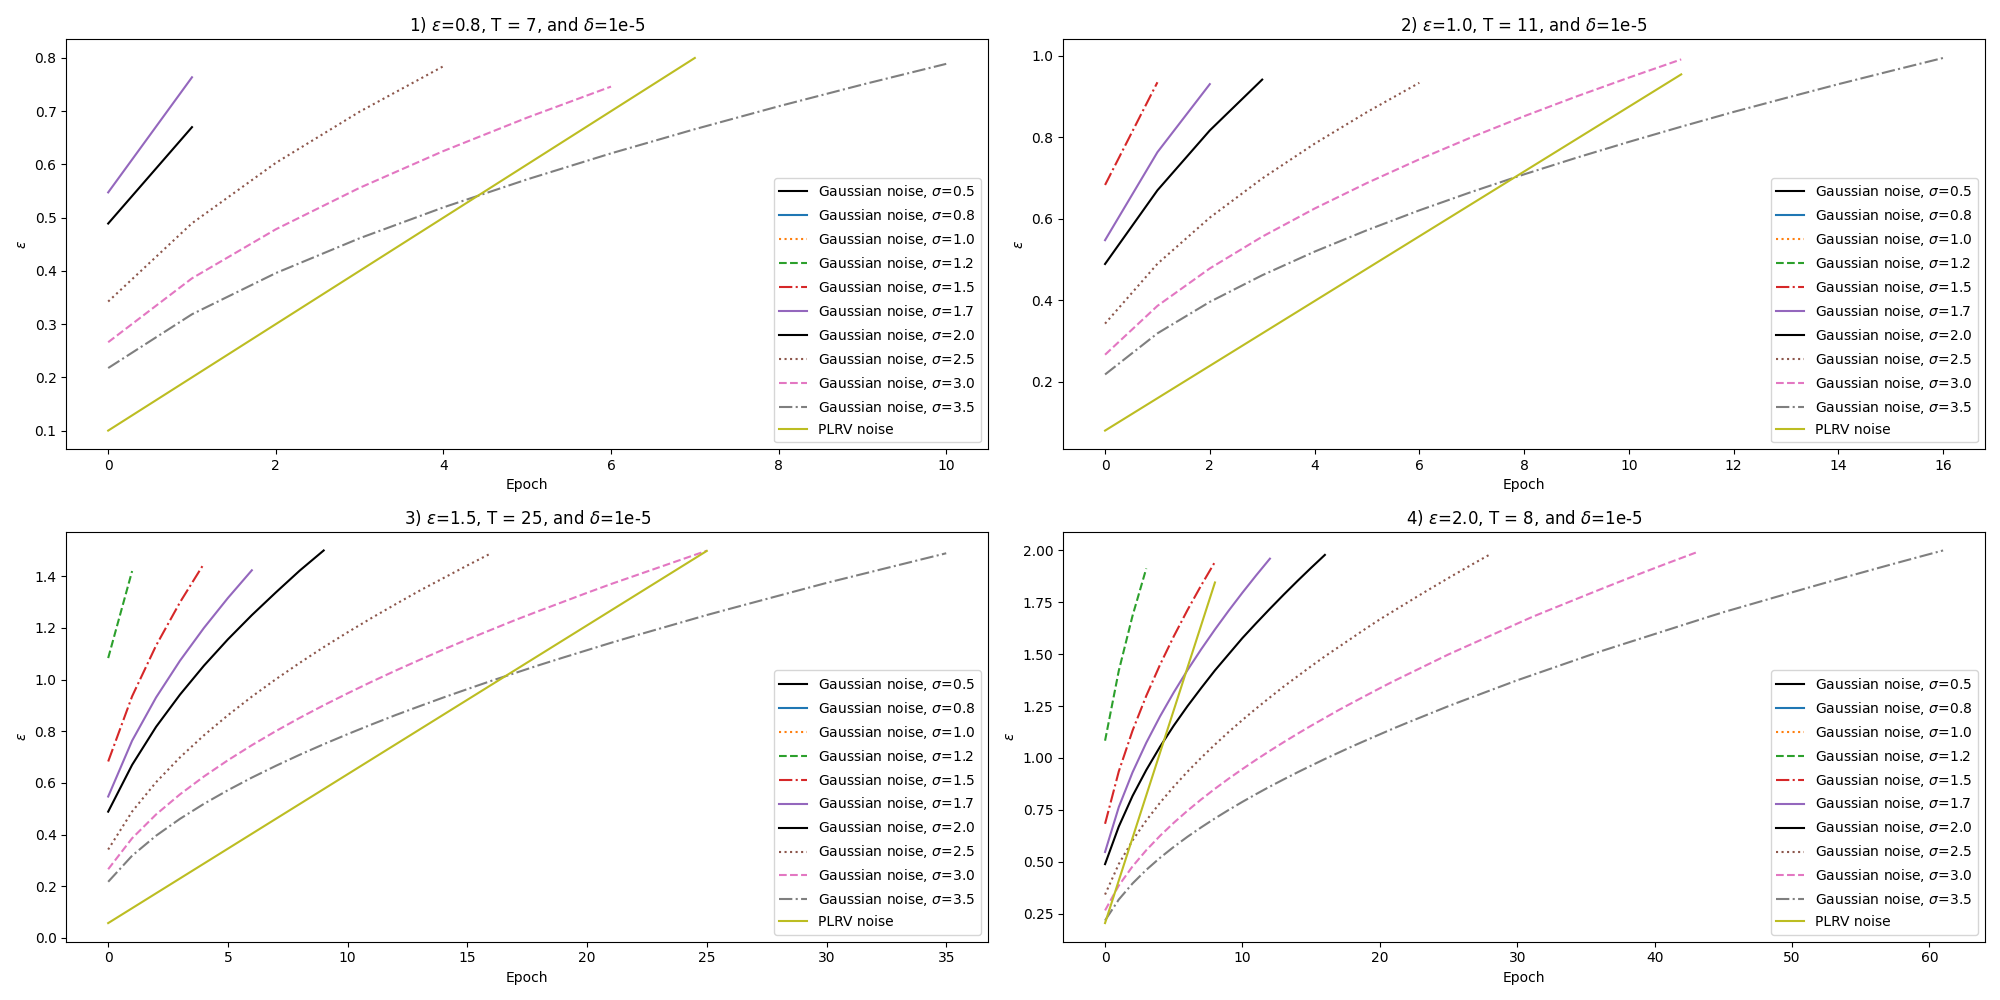
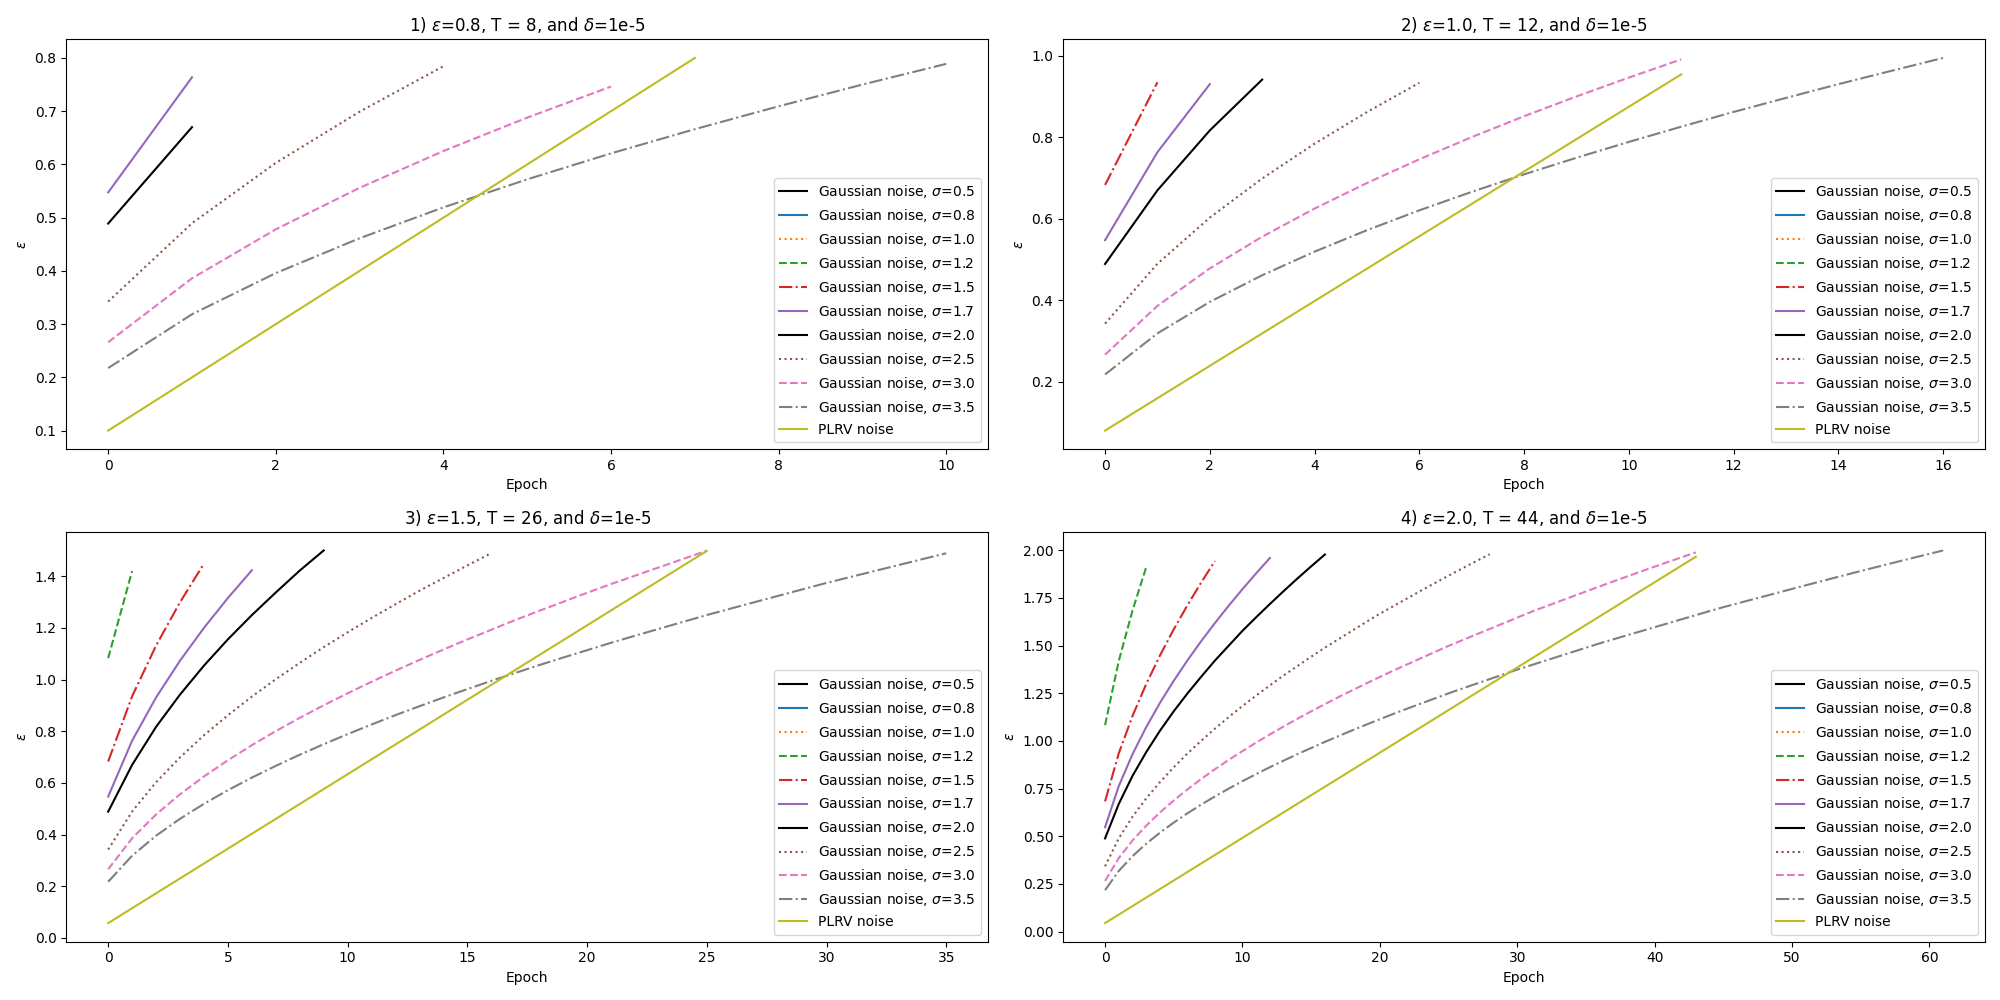
update

diff --git a/examples/my_example/final_result_mnist/CIFAR10_jul_6/plotter.py b/examples/my_example/final_result_mnist/CIFAR10_jul_6/plotter.py
@@ -244,11 +244,12 @@ def plot_epsilon_given_budget(data, budgets, legends, line_styles, title="Epsilo
         # x = [val for key, val in dynamic_data['epsilon'] if round_down(val,2) <= budget]
         lmo_data=y
         data_under_budget.update({'0.0':lmo_data})
+        t = len(data_under_budget['0.0'])
+        subplot_title=f"{plot_number}) $\\epsilon$={budget}, T = {t}, and $\\delta$=1e-5"
         for key, val in data_under_budget.items():
             val_key=range(0, len(val))
             ax.plot(val_key, val, line_styles[key], label=legends[key])
             ax.legend(loc='best')
-            subplot_title=f"{plot_number}) $\\epsilon$={budget}, T = {len(val)-1}, and $\\delta$=1e-5"
             ax.title.set_text(subplot_title)
             ax.set_xlabel('Epoch')
             ax.set_ylabel('$\\epsilon$')
@@ -396,14 +397,14 @@ if __name__=="__main__":
 
 
     print("data reading done")
-    budgets = [0.8,1.0,1.5,2.0]
+    budgets = [ 0.8,1.0,1.5,2.0]
     # plot_epsilon(data_epsilon, legends, line_styles, True)
     
     # plot_accuracy(data_accuracy, legends, line_styles, True)
 
-    # plot_epsilon_given_budget(data_epsilon, budgets, legends, line_styles)
+    plot_epsilon_given_budget(data_epsilon, budgets, legends, line_styles)
 
-    # plot_accuracy_given_budget(data_epsilon, data_accuracy, budgets, legends, line_styles)
+    plot_accuracy_given_budget(data_epsilon, data_accuracy, budgets, legends, line_styles)
 
 
     plot_accuracy_vs_epsilon(data_epsilon, data_accuracy, budgets, legends, line_styles, noise, title="Accuracy_vs_Epsilon")
